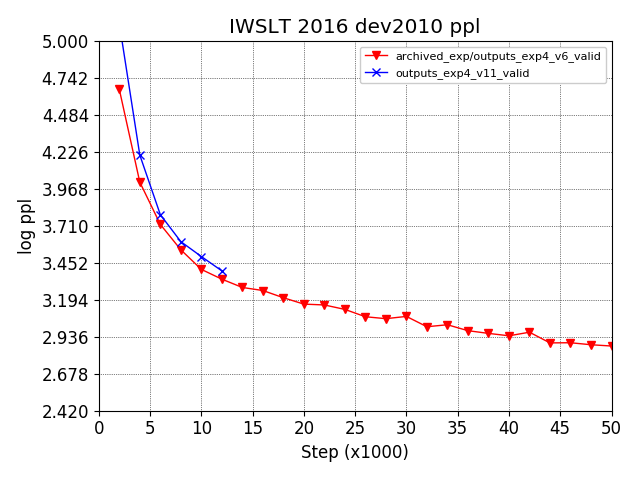
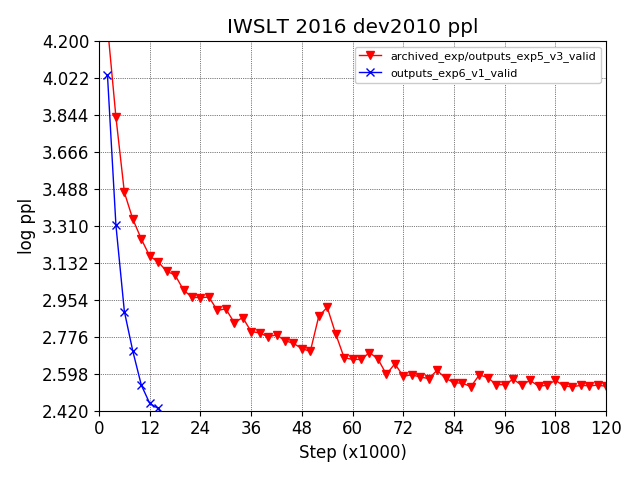
can use command line arguments to specify sinusoid or learnable pos embs

diff --git a/src/layers.py b/src/layers.py
@@ -14,49 +14,51 @@ from torch.autograd import Variable
 from utils import init_param
 
 
-INF = np.float32(np.inf)
-NEG_INF = float(np.float32(-np.inf))
-
-
 class PositionalEmbedding(nn.Module):
   def __init__(self, hparams):
     super(PositionalEmbedding, self).__init__()
 
     self.hparams = hparams
 
-    # precompute frequencies
-    assert self.hparams.d_word_vec % 2 == 0
-    freq = np.arange(start=0, stop=1.0, step=2 / self.hparams.d_word_vec,
-                     dtype=np.float32)
-    freq = np.power(10000.0, -freq)
+    if self.hparams.pos_emb_size is not None:
+      self.emb = nn.Embedding(self.hparams.pos_emb_size,
+                              self.hparams.d_word_vec,
+                              padding_idx=0)
+      if self.hparams.cuda:
+        self.emb = self.emb.cuda()
+    else:
+      d_word_vec = self.hparams.d_word_vec
+      freq = torch.arange(0, d_word_vec, 2) / d_word_vec
+      self.freq = 1.0 / (10000.0 ** Variable(freq))
+      if self.hparams.cuda:
+        self.freq = self.freq.cuda()
 
-    self.freq = Variable(torch.FloatTensor(freq).view(
-      [1, 1, self.hparams.d_word_vec // 2]))
-
-    if self.hparams.cuda:
-      self.freq = self.freq.cuda()
-
-  def forward(self, pos_emb_indices, mask):
+  def forward(self, x):
     """Compute positional embeddings.
 
     Args:
-      pos_emb_indices: Tensor of size [batch_size, max_len].
-      mask: Tensor of size [batch_size, max_len]. 0 means to ignore.
+      x: Tensor of size [batch_size, max_len]
 
     Returns:
-      pos_emb: Tensor of size [batch_size, max_len, d_word_vec].
+      emb: Tensor of size [batch_size, max_len, d_word_vec].
     """
 
-    batch_size, max_len = pos_emb_indices.size()
-    pos_emb_indices = pos_emb_indices.view([batch_size, max_len, 1])
-    pos_emb_sin = torch.sin(pos_emb_indices / self.freq).unsqueeze(-1)
-    pos_emb_cos = torch.cos(pos_emb_indices / self.freq).unsqueeze(-1)
-    pos_emb = torch.cat([pos_emb_sin, pos_emb_cos], dim=-1).contiguous().view(
-      batch_size, max_len, self.hparams.d_word_vec)
-    #pos_emb.data.masked_fill_(mask, float(0))
-    pos_emb.data.masked_fill_(mask, self.hparams.tiny)
+    d_word_vec = self.hparams.d_word_vec
+    batch_size, max_len = x.size()
+    pos = Variable(torch.arange(0, max_len))
+    if self.hparams.cuda:
+      pos = pos.cuda()
+    if self.hparams.pos_emb_size is not None:
+      pos = pos.add_(1).long().unsqueeze(0).expand_as(x).contiguous()
+      emb = self.emb(pos)
+    else:
+      emb = pos.float().unsqueeze(-1) @ self.freq.unsqueeze(0)
+      sin = torch.sin(emb).unsqueeze(-1)
+      cos = torch.cos(emb).unsqueeze(-1)
+      emb = torch.cat([sin, cos], dim=-1).contiguous().view(max_len, d_word_vec)
+      emb = emb.unsqueeze(0).expand(batch_size, -1, -1)
 
-    return pos_emb
+    return emb
 
 
 class LayerNormalization(nn.Module):

diff --git a/src/models.py b/src/models.py
@@ -23,11 +23,7 @@ class Encoder(nn.Module):
     self.hparams = hparams
     assert self.hparams.d_word_vec == self.hparams.d_model
 
-    #self.pos_emb = PositionalEmbedding(hparams)
-    self.pos_emb = nn.Embedding(1100,
-                                 self.hparams.d_word_vec,
-                                 padding_idx=0)
-
+    self.pos_emb = PositionalEmbedding(hparams)
     self.word_emb = nn.Embedding(self.hparams.source_vocab_size,
                                  self.hparams.d_word_vec,
                                  padding_idx=hparams.pad_id)
@@ -55,15 +51,10 @@ class Encoder(nn.Module):
     Returns:
       enc_output: Tensor of size [batch_size, max_len, d_model].
     """
-
     batch_size, max_len = x_train.size()
 
-    # [batch_size, max_len, 1] -> [batch_size, max_len, d_word_vec]
-    #pos_emb_mask = x_mask.unsqueeze(2).expand(
-    #  -1, -1, self.hparams.d_word_vec)
-    #pos_emb = self.pos_emb(x_pos_emb_indices, pos_emb_mask)
-    pos_emb = self.pos_emb(x_pos_emb_indices.long())
     # [batch_size, max_len, d_word_vec]
+    pos_emb = self.pos_emb(x_train)
     word_emb = self.word_emb(x_train) * self.emb_scale
     enc_input = word_emb + pos_emb
 
@@ -78,15 +69,10 @@ class Encoder(nn.Module):
 class Decoder(nn.Module):
   def __init__(self, hparams, *args, **kwargs):
     """Store hparams and creates modules."""
-
     super(Decoder, self).__init__()
     self.hparams = hparams
 
-    #self.pos_emb = PositionalEmbedding(hparams)
-    self.pos_emb = nn.Embedding(1100,
-                                 self.hparams.d_word_vec,
-                                 padding_idx=0)
-
+    self.pos_emb = PositionalEmbedding(hparams)
     self.word_emb = nn.Embedding(self.hparams.target_vocab_size,
                                  self.hparams.d_word_vec,
                                  padding_idx=hparams.pad_id)
@@ -123,13 +109,8 @@ class Decoder(nn.Module):
     batch_size, x_len = x_mask.size()
     batch_size, y_len = y_mask.size()
 
-    # [batch_size, y_len, 1] -> [batch_size, y_len, d_word_vec]
-    #pos_emb_mask = y_mask.unsqueeze(2).expand(
-    #  -1, -1, self.hparams.d_word_vec)
-    #pos_emb = self.pos_emb(y_pos_emb_indices, pos_emb_mask)
-    pos_emb = self.pos_emb(y_pos_emb_indices.long())
-
     # [batch_size, x_len, d_word_vec]
+    pos_emb = self.pos_emb(y_train)
     word_emb = self.word_emb(y_train) * self.emb_scale
     dec_input = word_emb + pos_emb
 

diff --git a/src/main.py b/src/main.py
@@ -67,6 +67,8 @@ add_argument(parser, "batcher", type="str", default="sent",
 add_argument(parser, "n_train_steps", type="int", default=100000, help="")
 add_argument(parser, "n_warm_ups", type="int", default=750, help="")
 add_argument(parser, "optim_switch", type="int", default=None, help="Switch from adam to SGD")
+add_argument(parser, "pos_emb_size", type="int", default=None,
+             help="Number of positional embedding steps. None means sinusoid")
 
 add_argument(parser, "share_emb_and_softmax", type="bool", default=True, help="share embedding and softmax")
 
@@ -212,7 +214,8 @@ def train():
       lr_dec=args.lr_dec,
       l2_reg=args.l2_reg,
       loss_norm=args.loss_norm,
-      init_type=args.init_type
+      init_type=args.init_type,
+      pos_emb_size=args.pos_emb_size,
     )
   data = DataLoader(hparams=hparams)
   hparams.add_param("source_vocab_size", data.source_vocab_size)

diff --git a/visualize/plot_acc_curve.py b/visualize/plot_acc_curve.py
@@ -89,16 +89,16 @@ def plot_result():
 
   if "ppl" in FLAGS.plot_name:
     xmin = 0.0
-    xmax = 50.0
+    xmax = 120.0
     ymin = 2.42  # min(ymin, min(np.min(valid_acc), np.min(test_acc)))
-    ymax = 5.00  # max(ymax, max(np.max(valid_acc), np.max(test_acc)))
+    ymax = 4.20  # max(ymax, max(np.max(valid_acc), np.max(test_acc)))
     dist = (ymax - ymin) / 10
     plt.yticks(np.arange(ymin, ymax + dist, dist))
   else:
     xmin = 0.0
-    xmax = 100.0
-    ymin = 0.25  # min(ymin, min(np.min(valid_acc), np.min(test_acc)))
-    ymax = 0.55  # max(ymax, max(np.max(valid_acc), np.max(test_acc)))
+    xmax = 120.0
+    ymin = 0.30  # min(ymin, min(np.min(valid_acc), np.min(test_acc)))
+    ymax = 0.60  # max(ymax, max(np.max(valid_acc), np.max(test_acc)))
 
   dist = (xmax - xmin) / 10
   plt.xticks(np.arange(0, xmax + dist, dist))

diff --git a/src/data_utils.py b/src/data_utils.py
@@ -276,7 +276,7 @@ class DataLoader(object):
       source_indices, target_indices = [self.bos_id], [self.bos_id]
       source_tokens = source_line.split(" ")
       target_tokens = target_line.split(" ")
-      if (not self.decode) and len(target_line) > self.hparams.max_len:
+      if is_training and len(target_line) > self.hparams.max_len:
         continue
 
       total_sents += 1
